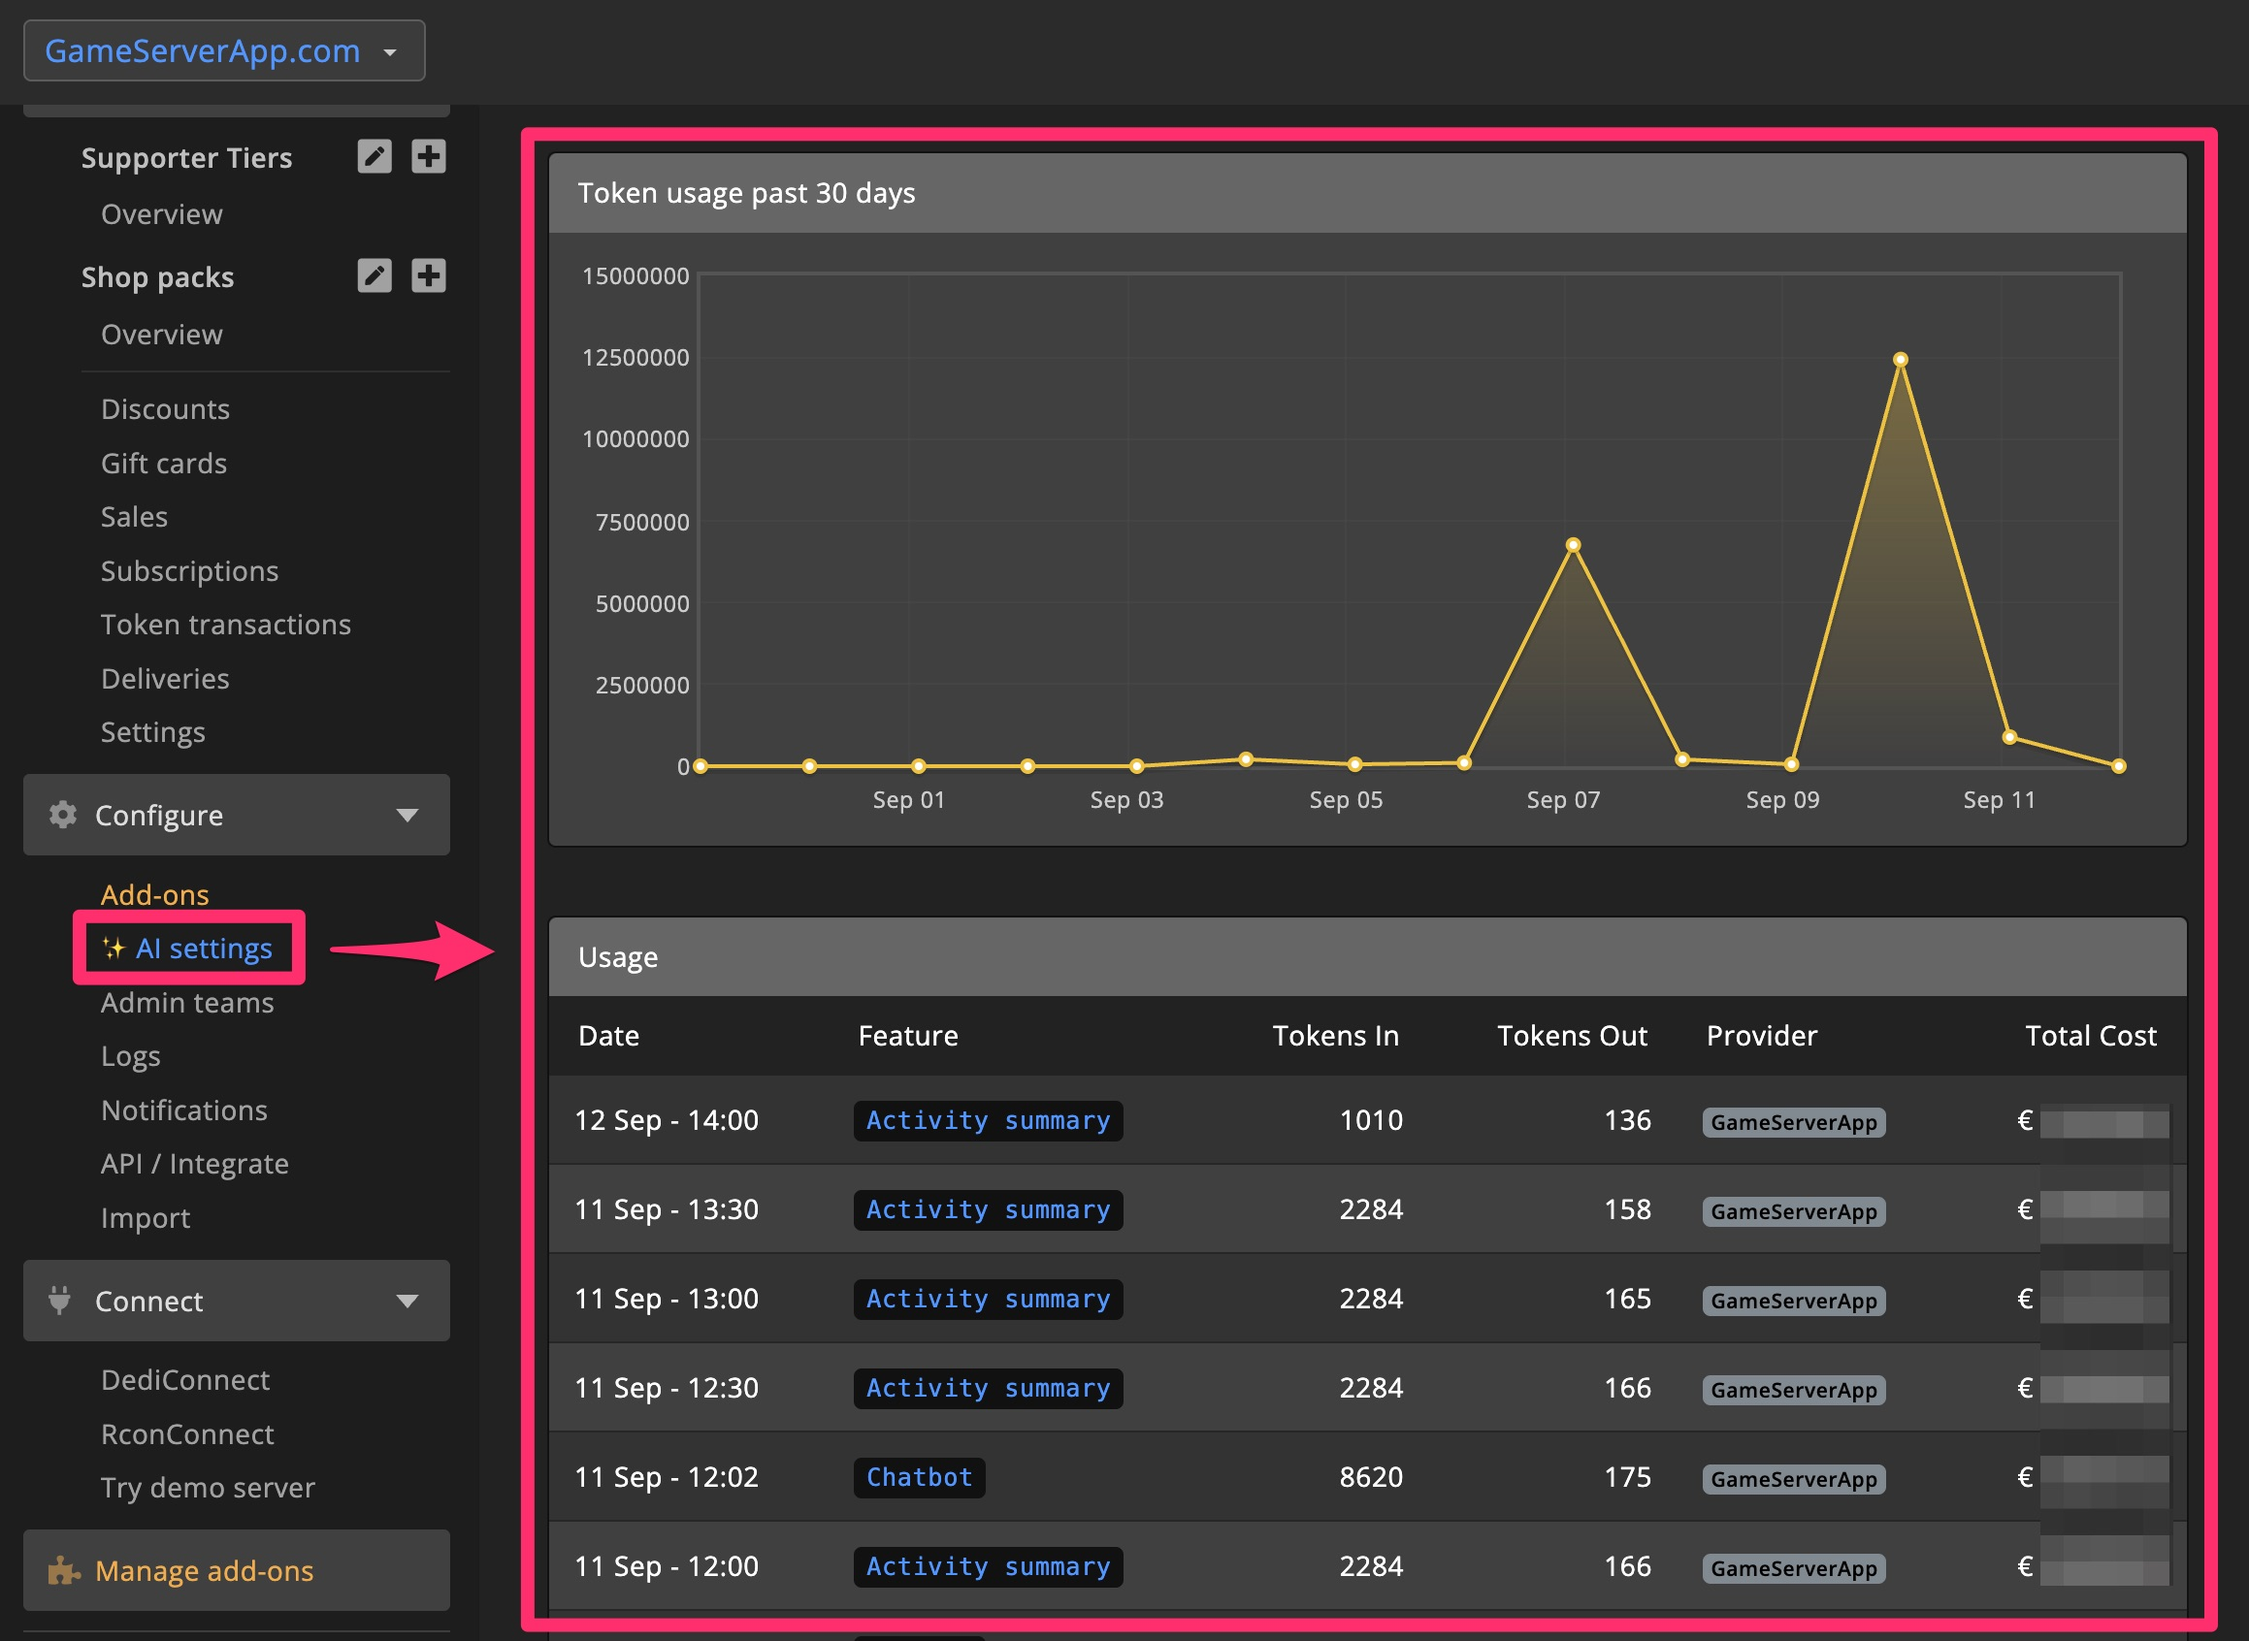
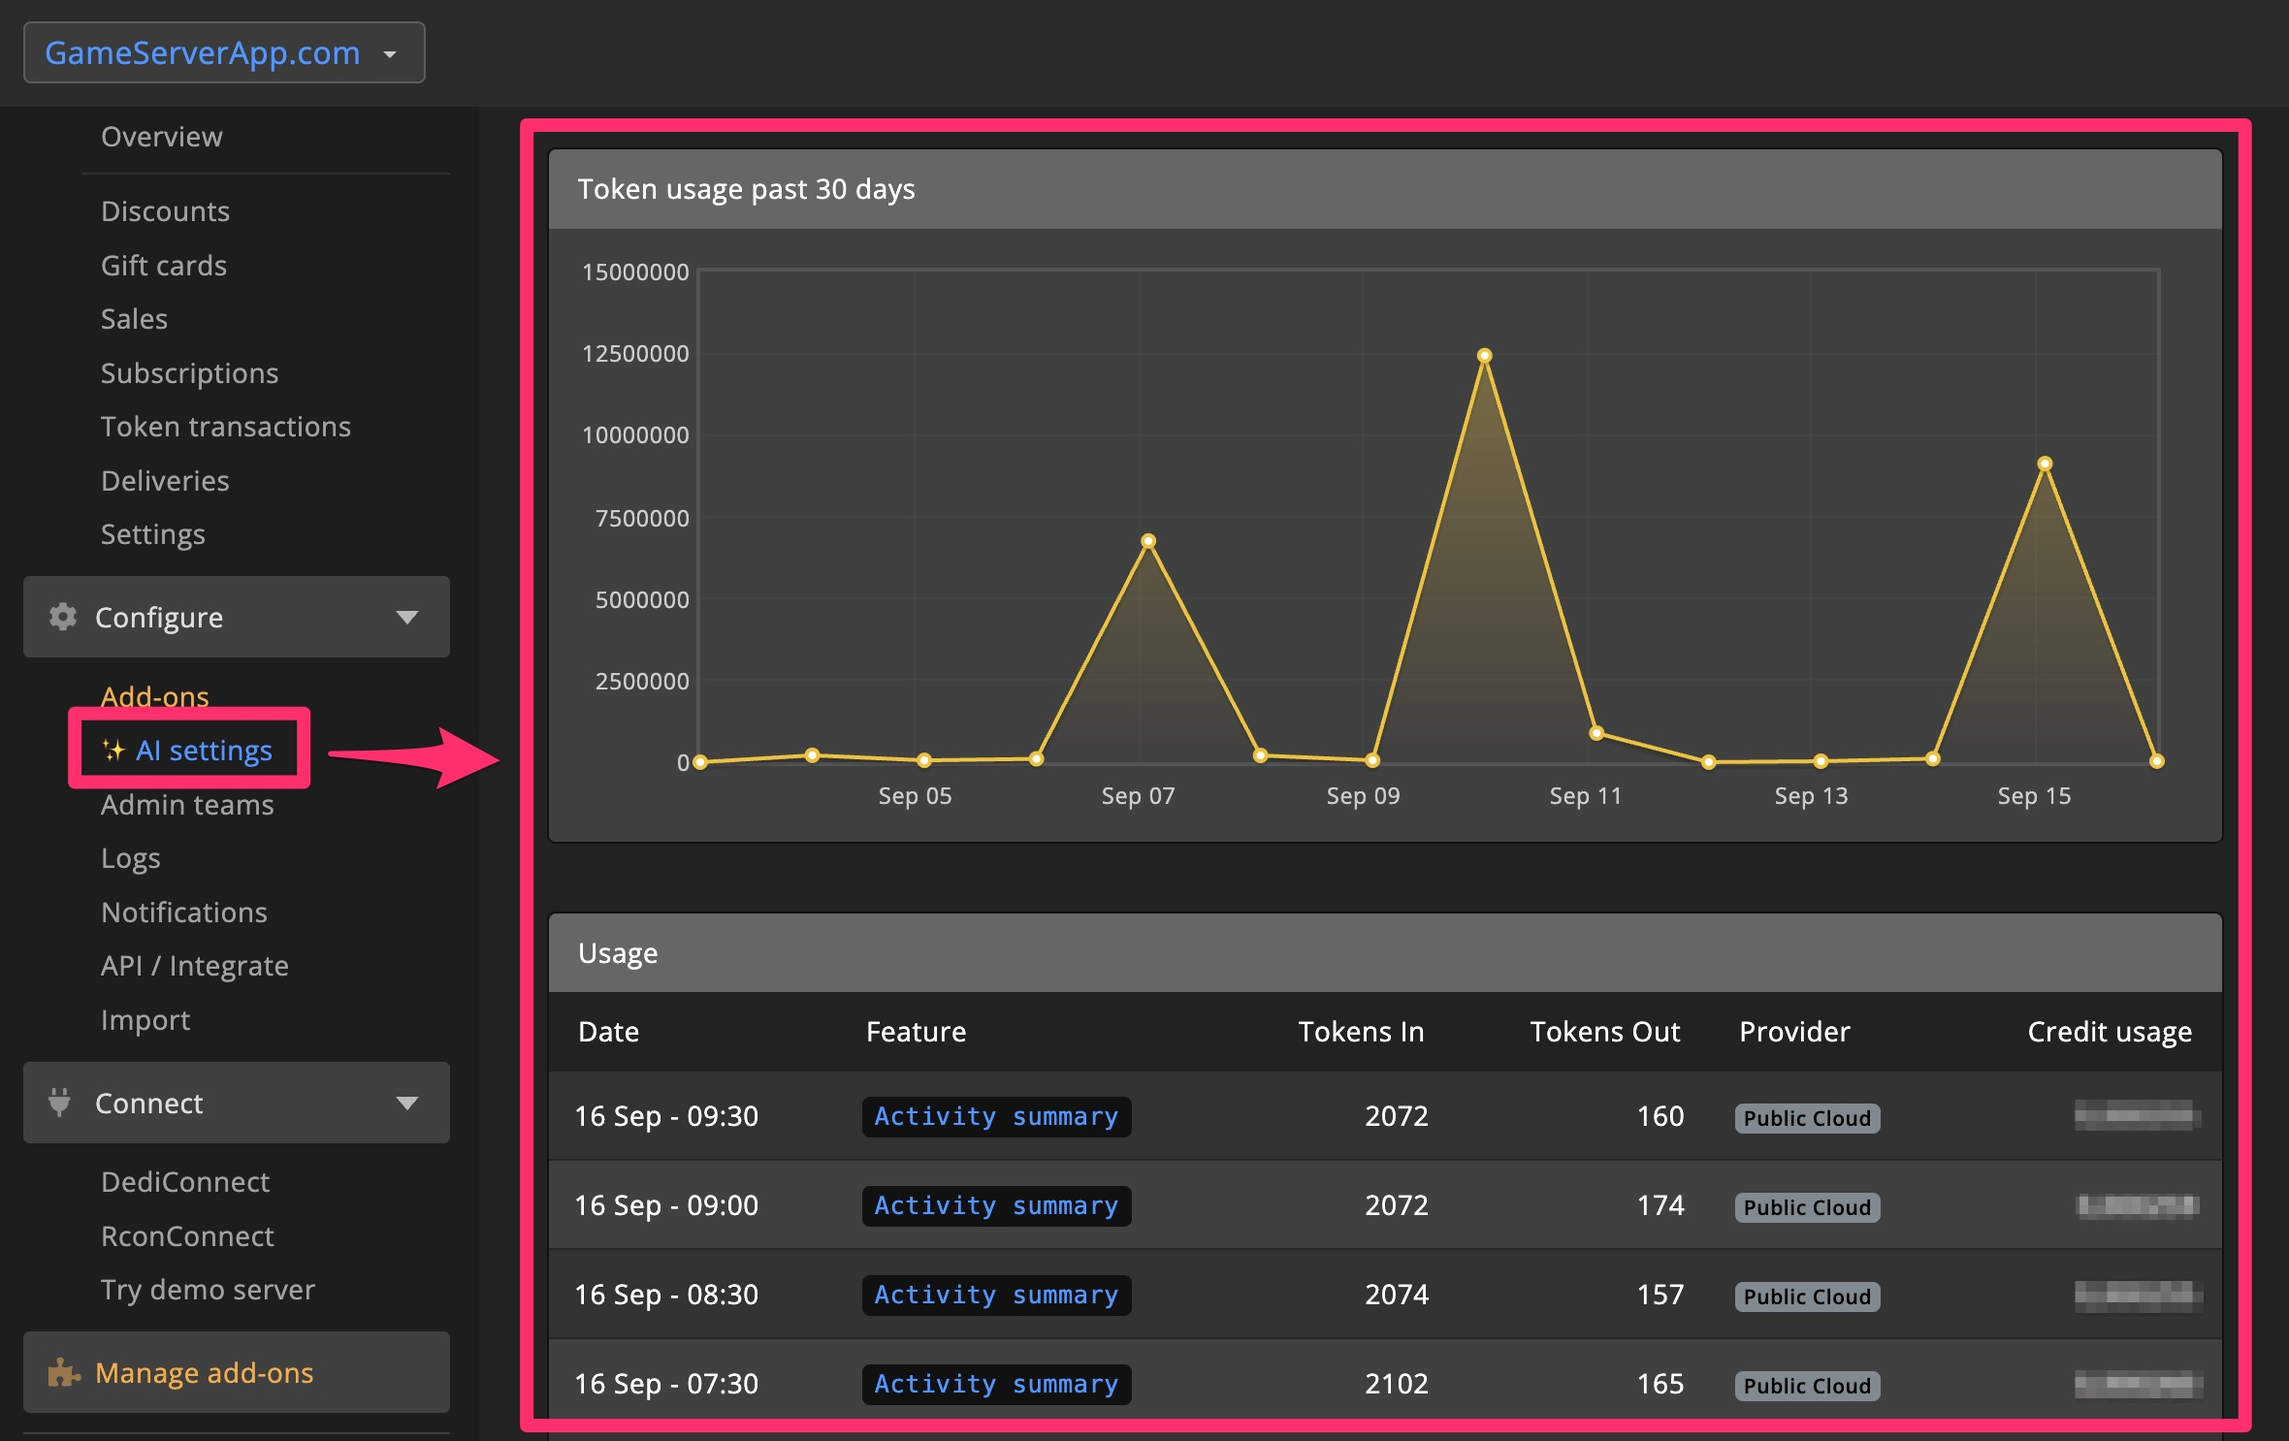
expand credit usage info

diff --git a/Documentation/docs/dashboard/ai-tools.md b/Documentation/docs/dashboard/ai-tools.md
@@ -53,7 +53,9 @@ With `chattiness`, you can configure whether the bot should respond to every mes
 ##### Response timeout
 The `Response timeout` determines how long the pause should be between responses from the bot. For example: if you select `5 seconds`, the bot will wait 5 seconds after each message before responding again.
 
-A short `Response timeout` ensures that your bot responds more frequently. This generally consumes more credits.
+A short `Response timeout` results in the bot running, for example, every 5 seconds to read the chat and determine if it should respond. This generally consumes more credits.
+
+A longer `Response timeout` means the bot will read the chat less frequently. When you set it to 1 minute, for example, the bot will read the chat every 1 minute and determine if it should respond.
 
 #### Controls
 
@@ -258,6 +260,19 @@ You will receive an email when you run out of credits.
 You can view at any time how many AI requests you have sent per feature, and how many credits each request cost you.
 
 ![AI tools - AI Settings - Usage](/img/dashboard/ai_tools/ai_tools-ai_settings-usage.jpg)
+
+#### Understanding usage
+The usage overview shows you how many AI requests you have sent per feature, and how many credits each request cost you.
+
+##### Tokens in & Tokens out
+On the usage page you see `Tokens in` and `Tokens out`. The `Tokens in` is an indication of how many tokens were used for the input of each AI request. The `Tokens out` is an indication of how many tokens were used for the output of each AI request.
+
+The `Tokens in` number consists of (example): instructions, context, history, recent messages, etc.
+
+##### Chatbot usage
+The patterns of the chatbot usage may vary depending on the in-game activity, and your [chatbot chat settings](/dashboard/ai-tools#chat-settings).
+
+The bot may not respond to every message, depending on your settings, but this will still show up on the usage page. This is because the bot will need to read the chat to determine if it should respond.
 
 ### Turn AI OFF
 
